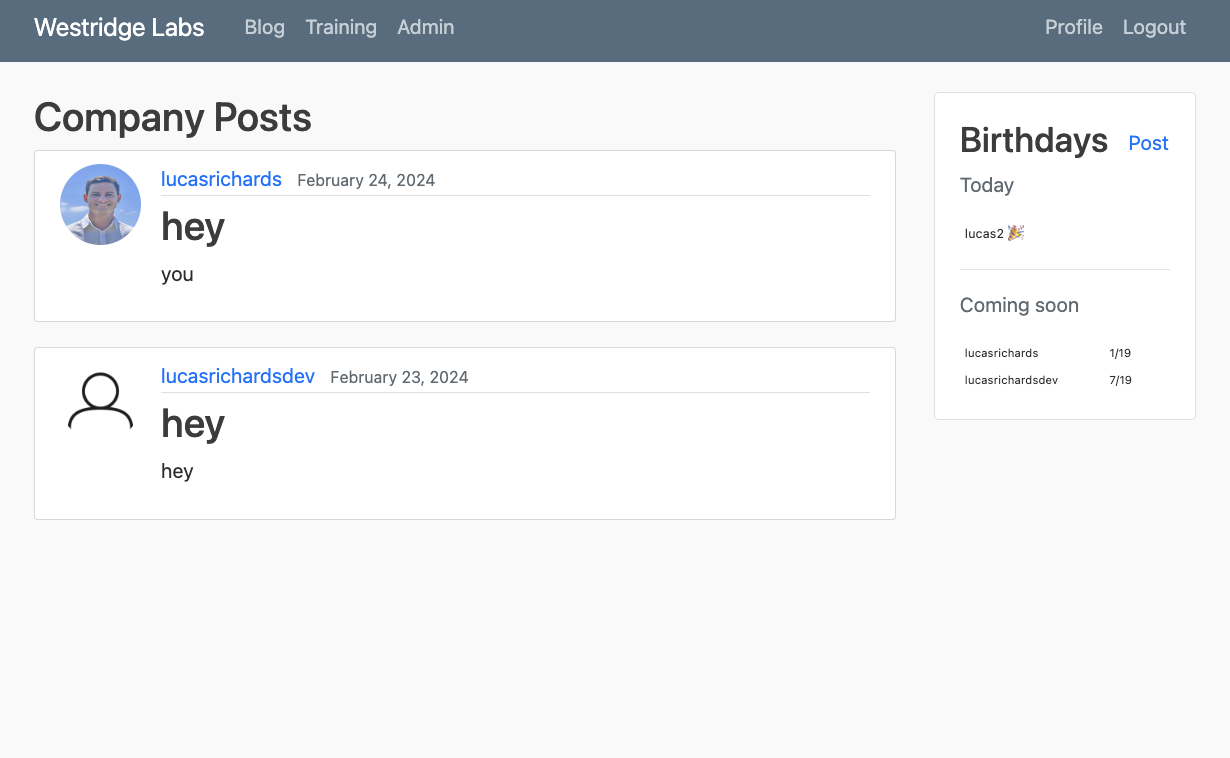
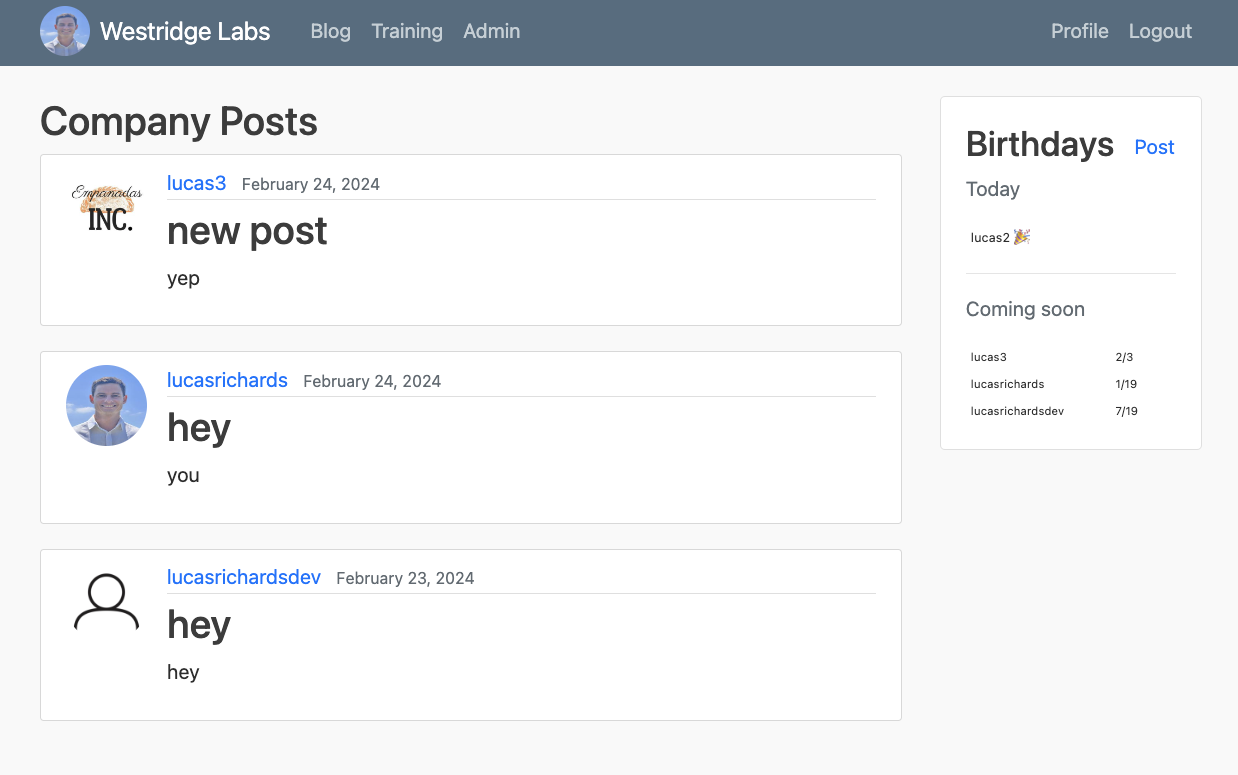
updates

diff --git a/blog/templates/blog/base.html b/blog/templates/blog/base.html
@@ -24,7 +24,11 @@
     <header class="site-header">
       <nav class="navbar navbar-expand-md navbar-dark bg-steel fixed-top">
         <div class="container">
-        <a class="navbar-brand mr-4" href="{% url 'blog-home' %}">Westridge Labs</a>
+          <!-- add user picture if logged in -->
+          {% if user.is_authenticated %}
+            <img src="{{ user.profile.image.url }}" class="rounded-circle" style="width: 40px; height: 40px;">
+          {% endif %}
+        <a class="navbar-brand mr-4 ml-2" href="{% url 'blog-home' %}">Westridge Labs</a>
         <button class="navbar-toggler" type="button" data-toggle="collapse" data-target="#navbarToggle" aria-controls="navbarToggle" aria-expanded="false" aria-label="Toggle navigation">
         <span class="navbar-toggler-icon"></span>
         </button>

diff --git a/training/templates/training/home.html b/training/templates/training/home.html
@@ -4,6 +4,10 @@
 
 {% if user.is_authenticated %}
 <h2>Your Trainings</h2>
+<!-- if there are no certificates yet -->
+{% if formswithcert|length == 0 %}
+    <p class="m-3">No trainings yet</p>
+{% endif %}
 
 {% for certificate, form in formswithcert %}
 <div id="accordion" class="mb-3 card {% if certificate.status == 'Completed' %}bg-success-light{% endif %}">

diff --git a/blog/context_processors.py b/blog/context_processors.py
@@ -4,6 +4,7 @@ from operator import attrgetter
 # make users available to all templates
 
 def all_users(request):
-    users = User.objects.all()
+    # filter user with birthday
+    users = User.objects.exclude(profile__birthday__isnull=True)
     sorted_users = sorted(users, key=attrgetter('profile.birthday'))
     return {'users': sorted_users}
